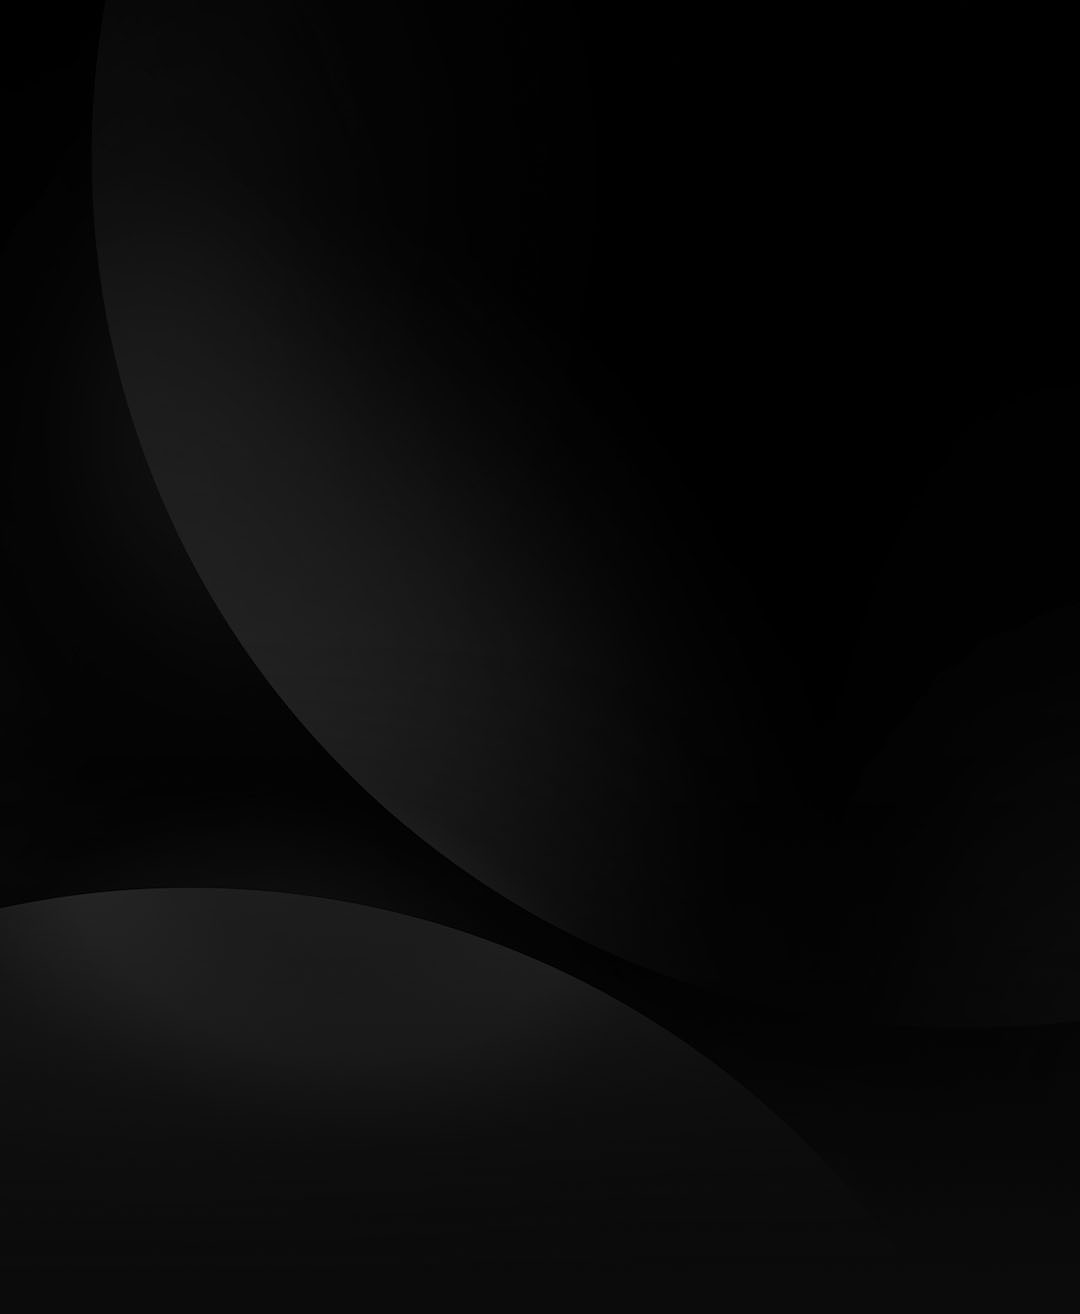
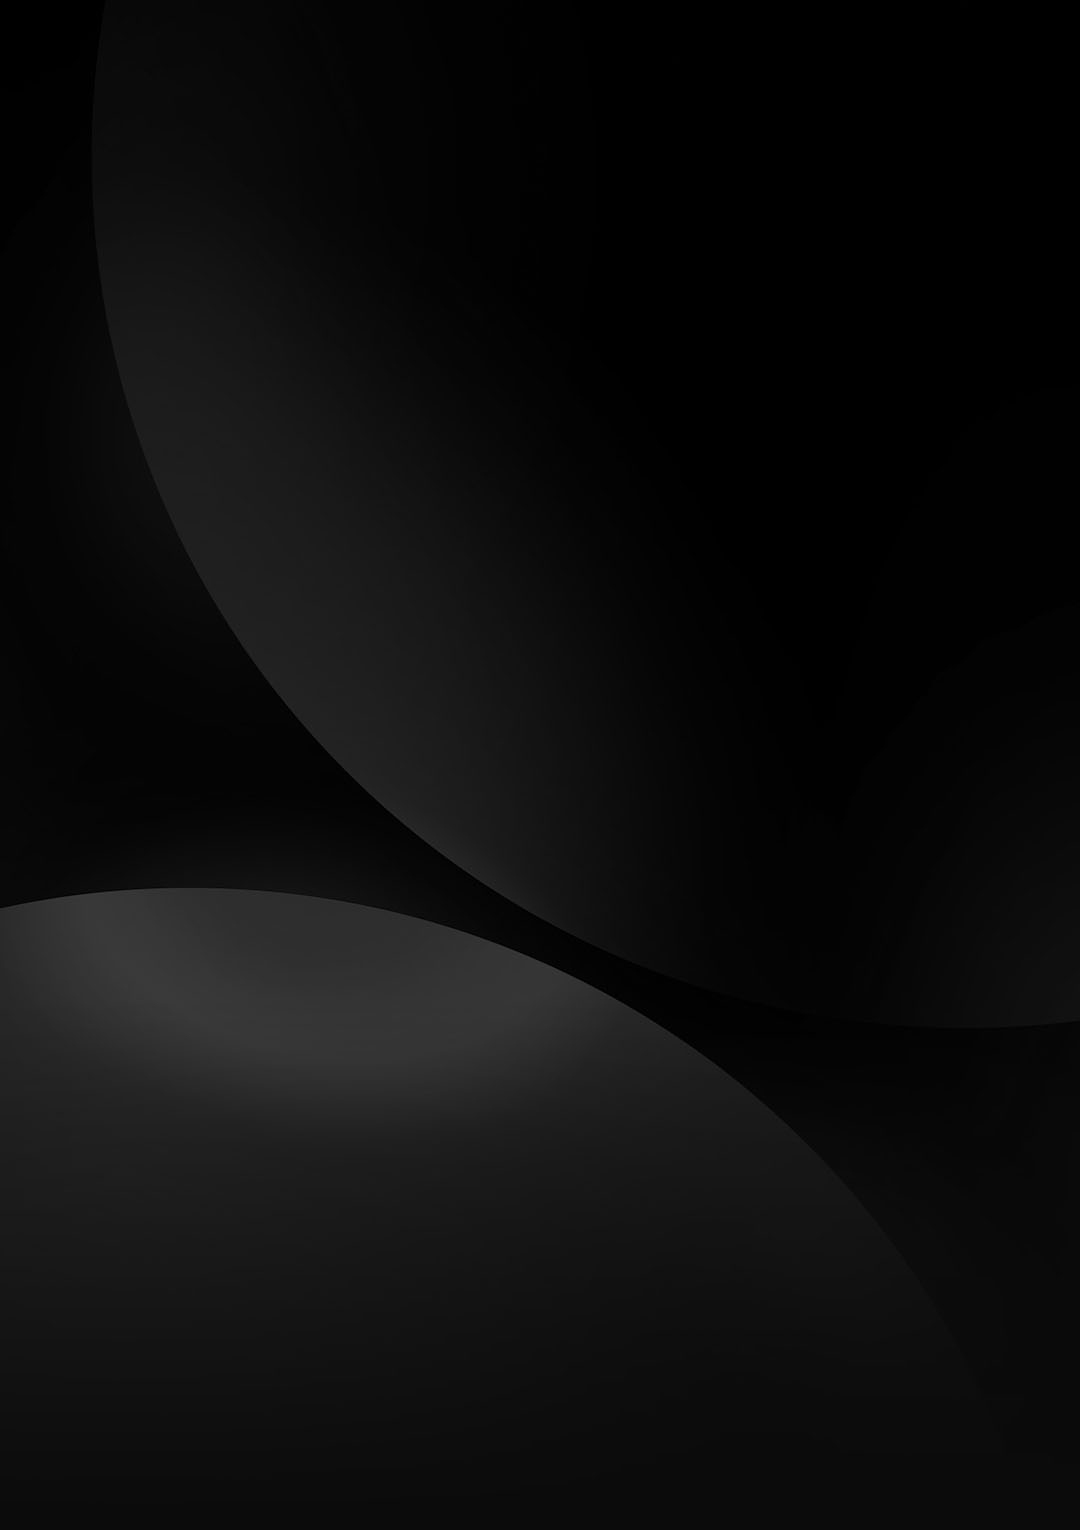
midway max-width:2200px

Changed region(s): [[0.0, 0.5616, 0.6722, 0.7489], [0.1833, 0.4368, 0.3667, 0.5304]]

diff --git a/New Site/Styles/hero.css b/New Site/Styles/hero.css
@@ -41,8 +41,8 @@ main{
 }
 .name-block{
     position: absolute;
-    top: 10%;
-    left: 5%;
+    top: 28vw;
+    left: 5vw;
     width: 90vw;
     height: 30vw;
 
@@ -111,11 +111,18 @@ main{
         display: none;
     }
 
+    #hero-bg{
+        width: min(100vw,2400px);
+        margin: auto;
+
+        /* border: 1px solid white; */
+    }
+
     .name-block{
         position: absolute;
-        top: 20%;
-        left: 2%;
-        width: 70vw;
+        top: 12.5vw;
+        left: max(2vw , calc(50vw - 600px));
+        width: min(40vw , 600px);
     
         display: flex;
         flex-direction: column;
@@ -126,25 +133,20 @@ main{
         font-family: code_mono;
 
 
-        @media(min-width: 1024px){
-            left: 3%;
-            top: 22%;
-        }
-
         @media(min-width: 1440px){
-            left: 8%;
-            top: 26%;
+            /* left: 8vw; */
+            top: 11vw;
         }
     
         /* border: 1px solid white; */
     }
     
     .name-block h2{
-        font-size: 1.1vw;
-        letter-spacing: .8vw;
+        font-size: min(1.1vw , 1rem);
+        letter-spacing: min(0.8vw , 1rem);
         font-weight: 360;
         opacity: .5;
-        line-height: 3.2vw;
+        line-height: min(3.2vw , 3rem);
     
     
         /* border: 1px solid white; */
@@ -160,10 +162,10 @@ main{
 
 
         @media(min-width: 1024px){
-            font-size: 3.5vw;
-            letter-spacing: 3vw;
+            font-size: min(3.5vw , 2.5rem);
+            letter-spacing: min(3vw , 2.5rem);
             font-weight: 450;
-            line-height: 4.8vw;
+            line-height: min(4.8vw , 3rem);
 
             padding: .4rem 3vw;
             padding-bottom: 0;
@@ -171,14 +173,8 @@ main{
         }
 
         @media(min-width: 1440px){
-            font-size: 3vw;
-            letter-spacing: 2.6vw;
-            font-weight: 540;
-            line-height: 3.8vw;
-
-
-            padding: .3rem 3vw;
-            padding-bottom: 0;
+           font-weight: 540;
+    
             
         }
     
@@ -186,25 +182,22 @@ main{
     }
     
     #initials{
-        font-size: 3vw;
-        letter-spacing: 6vw;
-
-        @media(min-width: 1024px){
-            font-size: 2vw;
-            letter-spacing: 5vw;
-        }
-
-        @media(min-width: 1440px){
-            font-size: 1.4vw;
-            letter-spacing: 3.9vw;
-            
-        }
+        font-size: min(3vw , 1.5rem);
+        letter-spacing: min(6vw , 3.3rem);
     }
 
     .name-block h3{
         text-align: left;
+        padding: .55rem;
         padding-left: 3vw;
+        font-size: .7rem;
         opacity: .25;
+
+        @media (min-width:1024px) {
+            font-size: 1.3rem;
+            padding: 1.2rem;
+            padding-left: 3vw;
+        }
        
     }
     
@@ -222,7 +215,7 @@ main{
 .nirmal{
     position: absolute;
     overflow: hidden;
-    top: 22%;
+    top: 60vw;
 
     
     display: flex;
@@ -271,8 +264,8 @@ main{
 
     
     backdrop-filter: blur(10px);
-    background: rgba(255, 255, 255, 0.06);
-    box-shadow: -10px 10px 10px rgba(0, 0, 0, .3);
+    background: rgba(255, 255, 255, 0.02);
+    box-shadow: -8px 8px 7px rgba(0, 0, 0, .15);
     
     height: 89%;
     
@@ -297,9 +290,15 @@ main{
 @media screen and (min-width: 640px) {
     
     .nirmal{
-        width:55%;
-        right: 5%;
-        top: 19%;
+        width:min(55vw , 600px);
+        right:max(3vw , calc(50vw - 600px));
+        top: 10vw;
+        padding-right: 0;
+
+        justify-content: space-between;
+
+
+        /* border: 1px solid white; */
     }
 
     .nirmal .desktop-img{
@@ -307,28 +306,23 @@ main{
     }
 
     .description{
-        padding-left: 1rem;
+        padding-left: 0;
 
         @media(min-width: 1024px){
-            padding-left: 1.4rem;
+            /* padding-left: 1.4rem; */
         }
 
         @media(min-width: 1440px){
-            padding-left: 2rem;
+            /* padding-left: 2rem; */
             
         }
     }
 
     .description ul{
-        padding: 0 .85rem;
+        padding: 0 0 0 .85rem  ;
 
         @media(min-width: 1024px){
-            padding: 0 1rem;
-        }
-
-        @media(min-width: 1440px){
-            padding: 0 1.5rem;
-            
+            padding: 0 0 0 1rem;
         }
     }
 
@@ -338,10 +332,6 @@ main{
         @media(min-width: 1024px){
             font-size: .9rem;
         }
-
-        @media(min-width: 1440px){
-            font-size: 1.23rem;
-            
-        }
     }
 }
+

diff --git a/New Site/Styles/nav.css b/New Site/Styles/nav.css
@@ -32,18 +32,22 @@ nav .width-lock{
     align-items: center;
     margin: auto;
     padding: 1rem;
-    width: min(100%, 1200px);
+    width: min(100%, 2200px);
 
     /* border: 1px solid white; */
 }
 
 
 nav h1{
-    font-size: 1.1rem;
+    font-size: 1rem;
     letter-spacing: .1rem;
     font-family: code;
     padding-left: 1rem;
     font-weight: 550;
+
+
+
+    /* border: 1px solid white; */
 }
 
 #ajla{
@@ -154,14 +158,6 @@ nav ul li a {
 
 
 
-
-
-
-
-
-
-
-
 @media screen and (min-width: 640px){
     
     nav{
@@ -182,7 +178,9 @@ nav ul li a {
     }
 
     nav h1{
-        font-size: 1.3rem;
+        font-size: 1.5rem;
+        padding: 1rem;
+        
     }
 
     nav button{
@@ -205,7 +203,7 @@ nav ul li a {
 
 
     .desktop-nav li a{
-        font-size: 1.2rem;
+        font-size: 1.4rem;
         font-weight: 400;
         color: rgba(255, 255, 255, .7);
         padding:.5rem;

diff --git a/New Site/Pages/hero.html b/New Site/Pages/hero.html
@@ -37,8 +37,8 @@
         
   <main>
     <section class="hero">
-      <img class="desktop-img" src="/Assets/NewAssets/Img/BG_desktop.jpg" alt="" width="1920" height="1080">
-      <img class="mobile-img" src="/Assets/NewAssets/Img/BG_mobile.jpg" alt="" width="1080" height="1314">
+      <img id="hero-bg" class="desktop-img" src="/Assets/NewAssets/Img/BG_desktop.jpg" alt="" width="1920" height="1080">
+      <img class="mobile-img" src="/Assets/NewAssets/Img/BG_mobile.jpg" alt="" width="1080" height="1530">
       <article class="name-block">
         <h2>//HI<br/>//MY NAME IS</h2>
         <h1>NIRMAL<br/><span id="initials">AJLA</span></h1>
@@ -59,6 +59,11 @@
           </ul>
         </div>
       </article>
+    </section>
+    
+    
+    <section class="about-me">
+      <h2></h2>
     </section>
 
     
